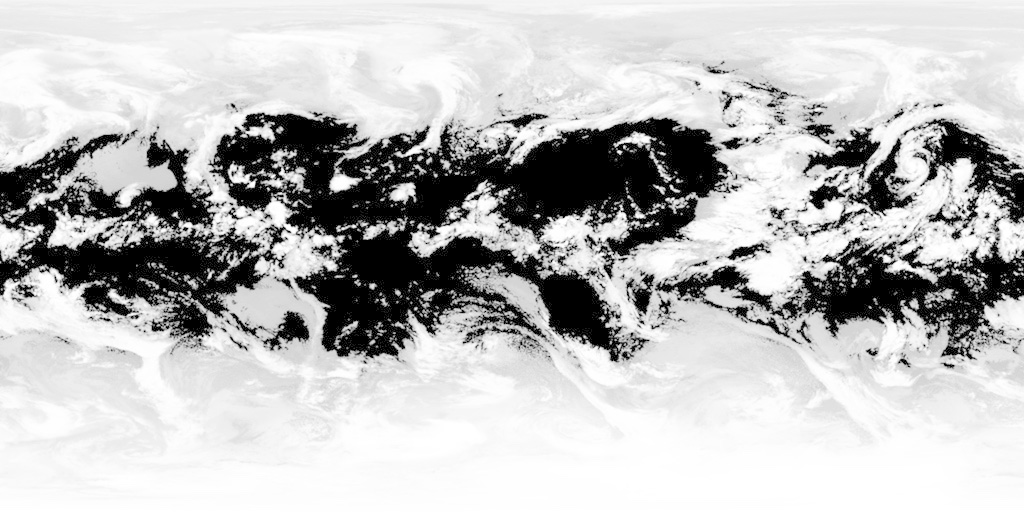
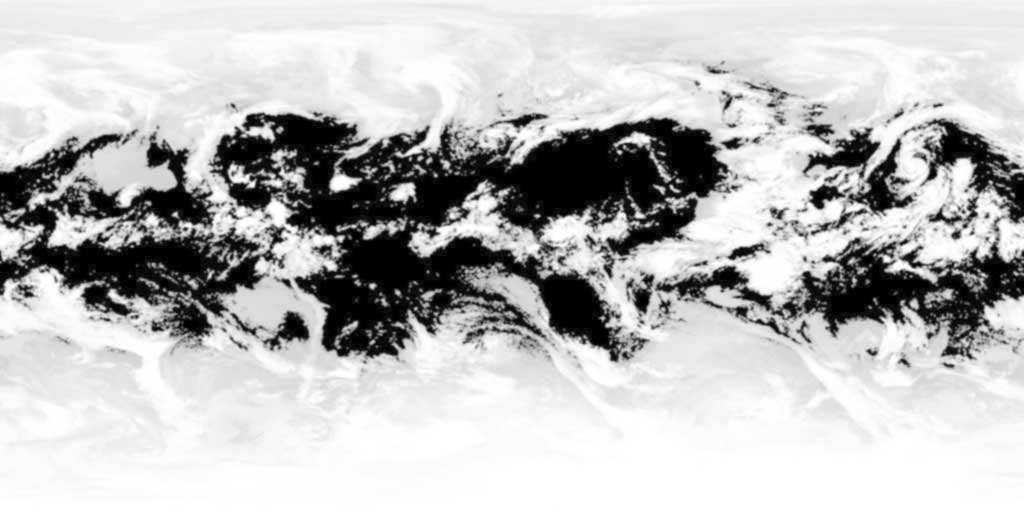
Compressed largest images

diff --git a/app/src/app/components/familiar-technologies/_theme.scss b/app/src/app/components/familiar-technologies/_theme.scss
@@ -3,7 +3,7 @@
 
 #familiar-technologies {
     // background-color: mat.get-theme-color($theme, 'primary', 20);
-    background-image: url('../../../../public/images/banners/cloud.PNG');
+    background-image: url('../../../../public/images/banners/cloud.jpg');
     background-position: center;
     background-repeat: no-repeat;
     background-size: cover;

diff --git a/app/src/app/components/open-source-banner/open-source-banner.component.html b/app/src/app/components/open-source-banner/open-source-banner.component.html
@@ -1,6 +1,6 @@
 <section id="open-source-banner">
     <img class="open-source-banner-image" 
-        src="images/banners/open source system empty.png" 
+        src="images/banners/open source system empty.jpg" 
         alt="open source technology" />
 
     <div class="open-source-banner-overlay" [@fadeInEnterFromLeft]>

diff --git a/app/src/app/components/hero/_theme.scss b/app/src/app/components/hero/_theme.scss
@@ -2,7 +2,7 @@
 @use '../../../styles/theme/theme' as theme;
 
 #hero-component {
-    background-image: url('/images/banners/cloud.PNG');
+    background-image: url('/images/banners/cloud.jpg');
 
     .hero-tagline {
         color: mat.get-theme-color(theme.$theme, 'neutral', 10);
